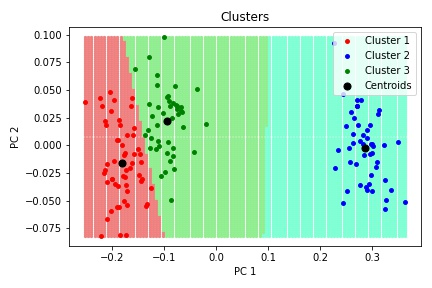
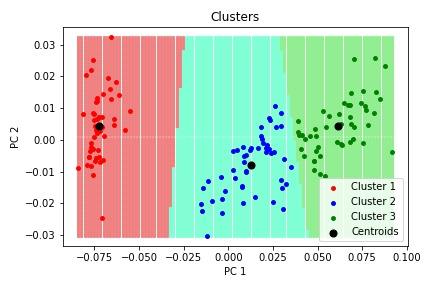
Changes made to clustering post

diff --git a/post/clustering/index.html b/post/clustering/index.html
@@ -242,21 +242,21 @@
 <tr>
 <td style="text-align:left">Versicolor</td>
 <td style="text-align:right">5</td>
-<td style="text-align:right">0</td>
-<td style="text-align:right">45</td>
+<td style="text-align:right">48</td>
+<td style="text-align:right">2</td>
 </tr>
 <tr>
 <td style="text-align:left">Virginica</td>
 <td style="text-align:right">0</td>
-<td style="text-align:right">0</td>
-<td style="text-align:right">50</td>
+<td style="text-align:right">4</td>
+<td style="text-align:right">46</td>
 </tr>
 </tbody>
 </table>
 <h3 id="normalisation">Normalisation</h3>
-<p>It is best to normalise this dataset before applying a clustering algorithm. Variables in this dataset will have naturally different scales which will cause some variables to have heavier weighting in the clustering algorithm. To ensure that all variables are given the same weight in influence.</p>
-<p>There can be some circumstances where normalising is not suitable, such as when dealing with coordinate variables like latitude and longitude.</p>
-<p>In this case I&rsquo;ll being using normalize from the Scikit-Learn library to rescale the variables to unit norm. This will place all variable on a scale between 0 and 1.</p>
+<p>It is best to normalise this dataset before applying a clustering algorithm. Variables in this dataset will have naturally different scales which will cause some variables to have heavier weighting in the clustering algorithm. To ensure that all variables are given a more appropriate weight in influence.</p>
+<p>There can be some circumstances where normalising is not suitable, such as when dealing with coordinate variables like latitude and longitude. Other methods of rescaling variables</p>
+<p>In this case I&rsquo;ll being using normalize from the Scikit-Learn library to rescale the variables to unit norm. This will place all variables on a scale between -1 and 1.</p>
 <div class="highlight"><pre class="chroma"><code class="language-python" data-lang="python"><span class="kn">from</span> <span class="nn">sklearn.preprocessing</span> <span class="kn">import</span> <span class="n">normalize</span>
 </code></pre></div><h3 id="k-means-clustering">K-Means Clustering</h3>
 <p>In the following python code \(X\) will denote a NumPy matrix array (150, 4) for input variables.</p>
@@ -273,7 +273,7 @@
 <div class="highlight"><pre class="chroma"><code class="language-python" data-lang="python"><span class="c1"># Minimum k</span>
 <span class="n">k_start</span> <span class="o">=</span> <span class="mi">1</span>
 <span class="c1"># Maximum k</span>
-<span class="n">k_max</span> <span class="o">=</span> <span class="mi">30</span>
+<span class="n">k_max</span> <span class="o">=</span> <span class="mi">15</span>
 <span class="c1"># List of all inertia values</span>
 <span class="n">inertia_list</span> <span class="o">=</span> <span class="p">[</span><span class="n">inertia_value</span><span class="p">(</span><span class="n">X</span><span class="p">,</span> <span class="n">k</span><span class="p">)</span> <span class="k">for</span> <span class="n">k</span> <span class="ow">in</span> <span class="nb">range</span><span class="p">(</span><span class="n">k_start</span><span class="p">,</span> <span class="n">k_max</span><span class="o">+</span><span class="mi">1</span><span class="p">)]</span>
 </code></pre></div><p>Results can then be plotted.</p>
@@ -294,8 +294,8 @@ $$</p>
         <span class="c1"># Calculate and append distance</span>
         <span class="n">dist</span><span class="o">.</span><span class="n">append</span><span class="p">(</span><span class="nb">abs</span><span class="p">(</span><span class="n">grad</span> <span class="o">*</span> <span class="p">(</span><span class="n">k_start</span> <span class="o">+</span> <span class="n">i</span><span class="p">)</span> <span class="o">-</span> <span class="n">inertia_list</span><span class="p">[</span><span class="n">i</span><span class="p">]</span> <span class="o">+</span> <span class="n">const</span><span class="p">)</span> <span class="o">/</span> <span class="n">np</span><span class="o">.</span><span class="n">sqrt</span><span class="p">(</span><span class="n">grad</span> <span class="o">*</span> <span class="n">grad</span> <span class="o">+</span> <span class="mi">1</span><span class="p">))</span>
     <span class="c1"># Return k associated with largest distance</span>
-    <span class="k">return</span> <span class="n">k_start</span> <span class="o">+</span> <span class="n">np</span><span class="o">.</span><span class="n">argmax</span><span class="p">(</span><span class="n">dists</span><span class="p">)</span>
-</code></pre></div><p>When run on the data, this function selects 3 and the appropriate number of clusters. Interestingly, the selected number of clusters is actually 2 when using a lower maximum. As it&rsquo;s known that there are 3 species in the dataset, it suggests 2 of the flower species have similar characteristics.</p>
+    <span class="k">return</span> <span class="n">k_start</span> <span class="o">+</span> <span class="n">np</span><span class="o">.</span><span class="n">argmax</span><span class="p">(</span><span class="n">dist</span><span class="p">)</span>
+</code></pre></div><p>When run on the data, this function selects 3 and the appropriate number of clusters.</p>
 <h3 id="visualize">Visualize</h3>
 <h4 id="principal-component-analysis">Principal Component Analysis</h4>
 <p>I&rsquo;ll be using principal components to reduce the dimensionailty of the dataset to 2. Principal Component Analysis (PCA) will give vectors that try to preserve the variance in the data. The principal components will be derived using PCA from Scikit-Learn library.</p>
@@ -324,14 +324,14 @@ $$</p>
 <tr>
 <td style="text-align:left">Versicolor</td>
 <td style="text-align:right">5</td>
-<td style="text-align:right">0</td>
-<td style="text-align:right">45</td>
+<td style="text-align:right">48</td>
+<td style="text-align:right">2</td>
 </tr>
 <tr>
 <td style="text-align:left">Virginica</td>
 <td style="text-align:right">0</td>
-<td style="text-align:right">0</td>
-<td style="text-align:right">50</td>
+<td style="text-align:right">4</td>
+<td style="text-align:right">46</td>
 </tr>
 </tbody>
 </table>
